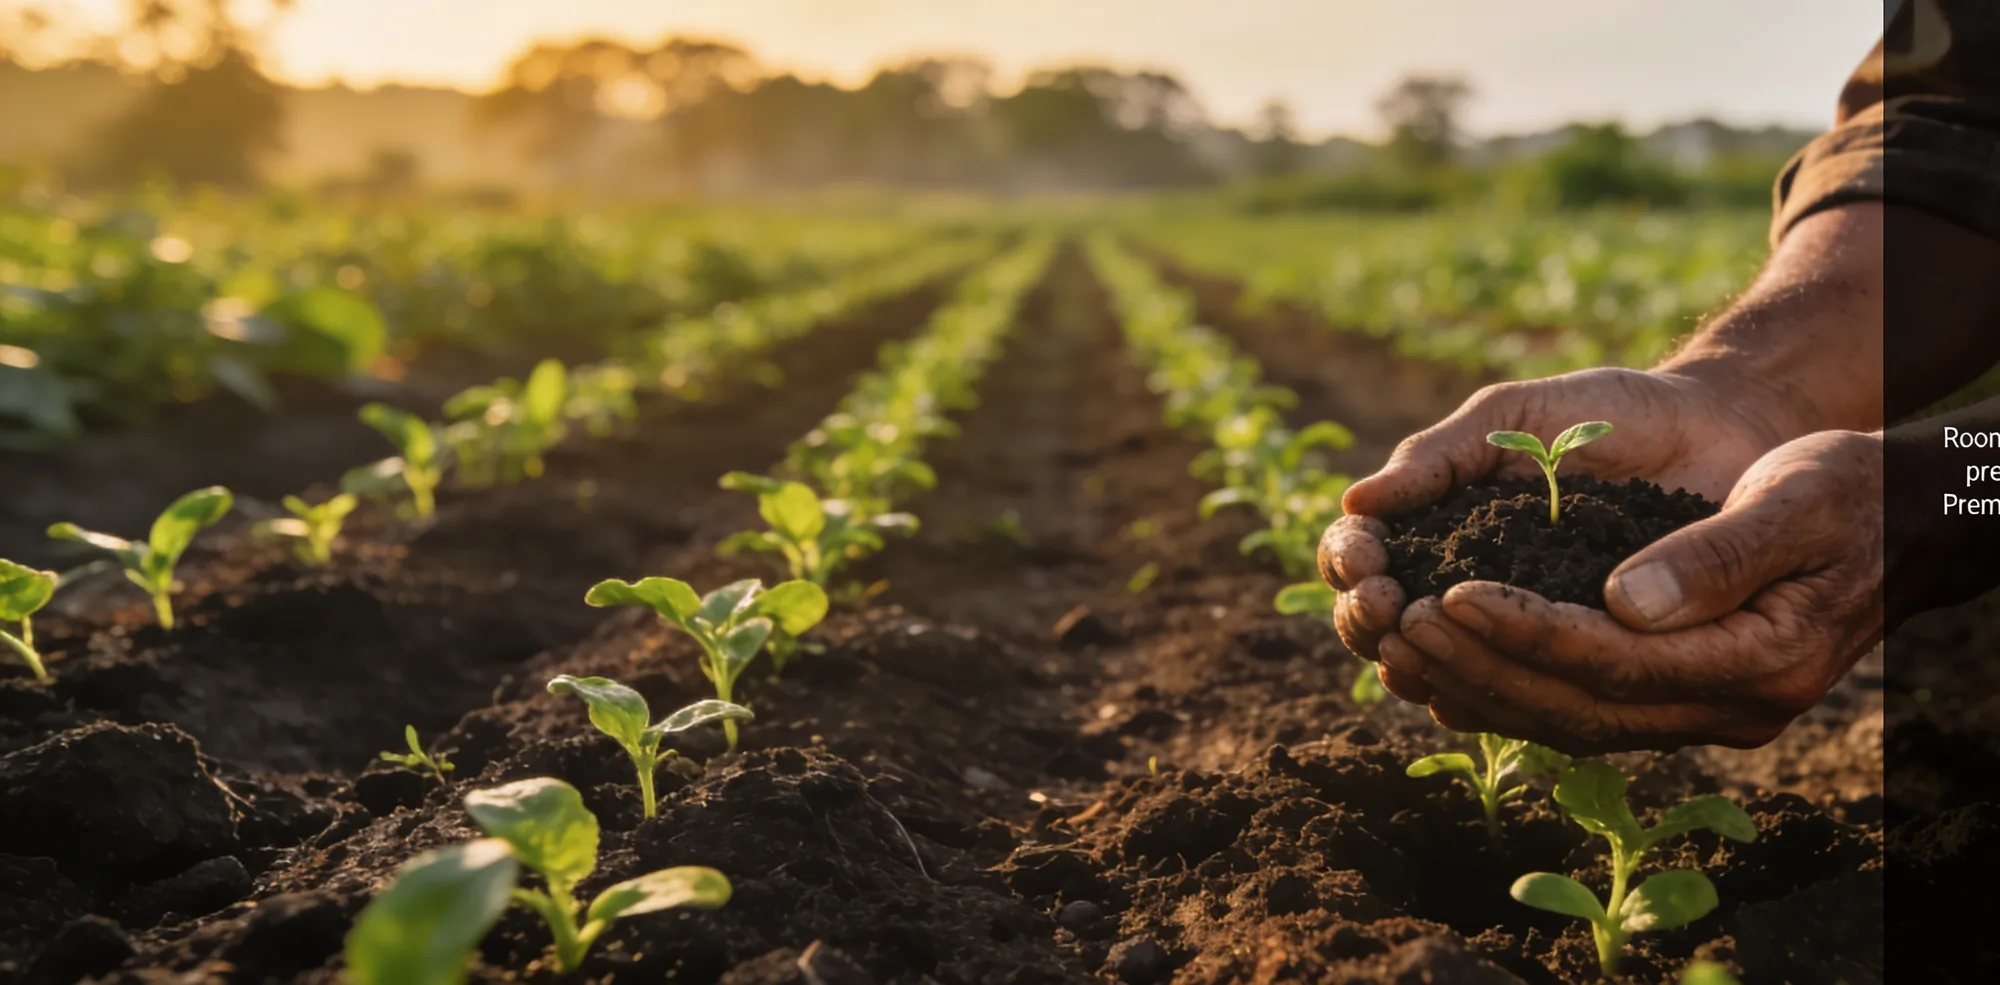
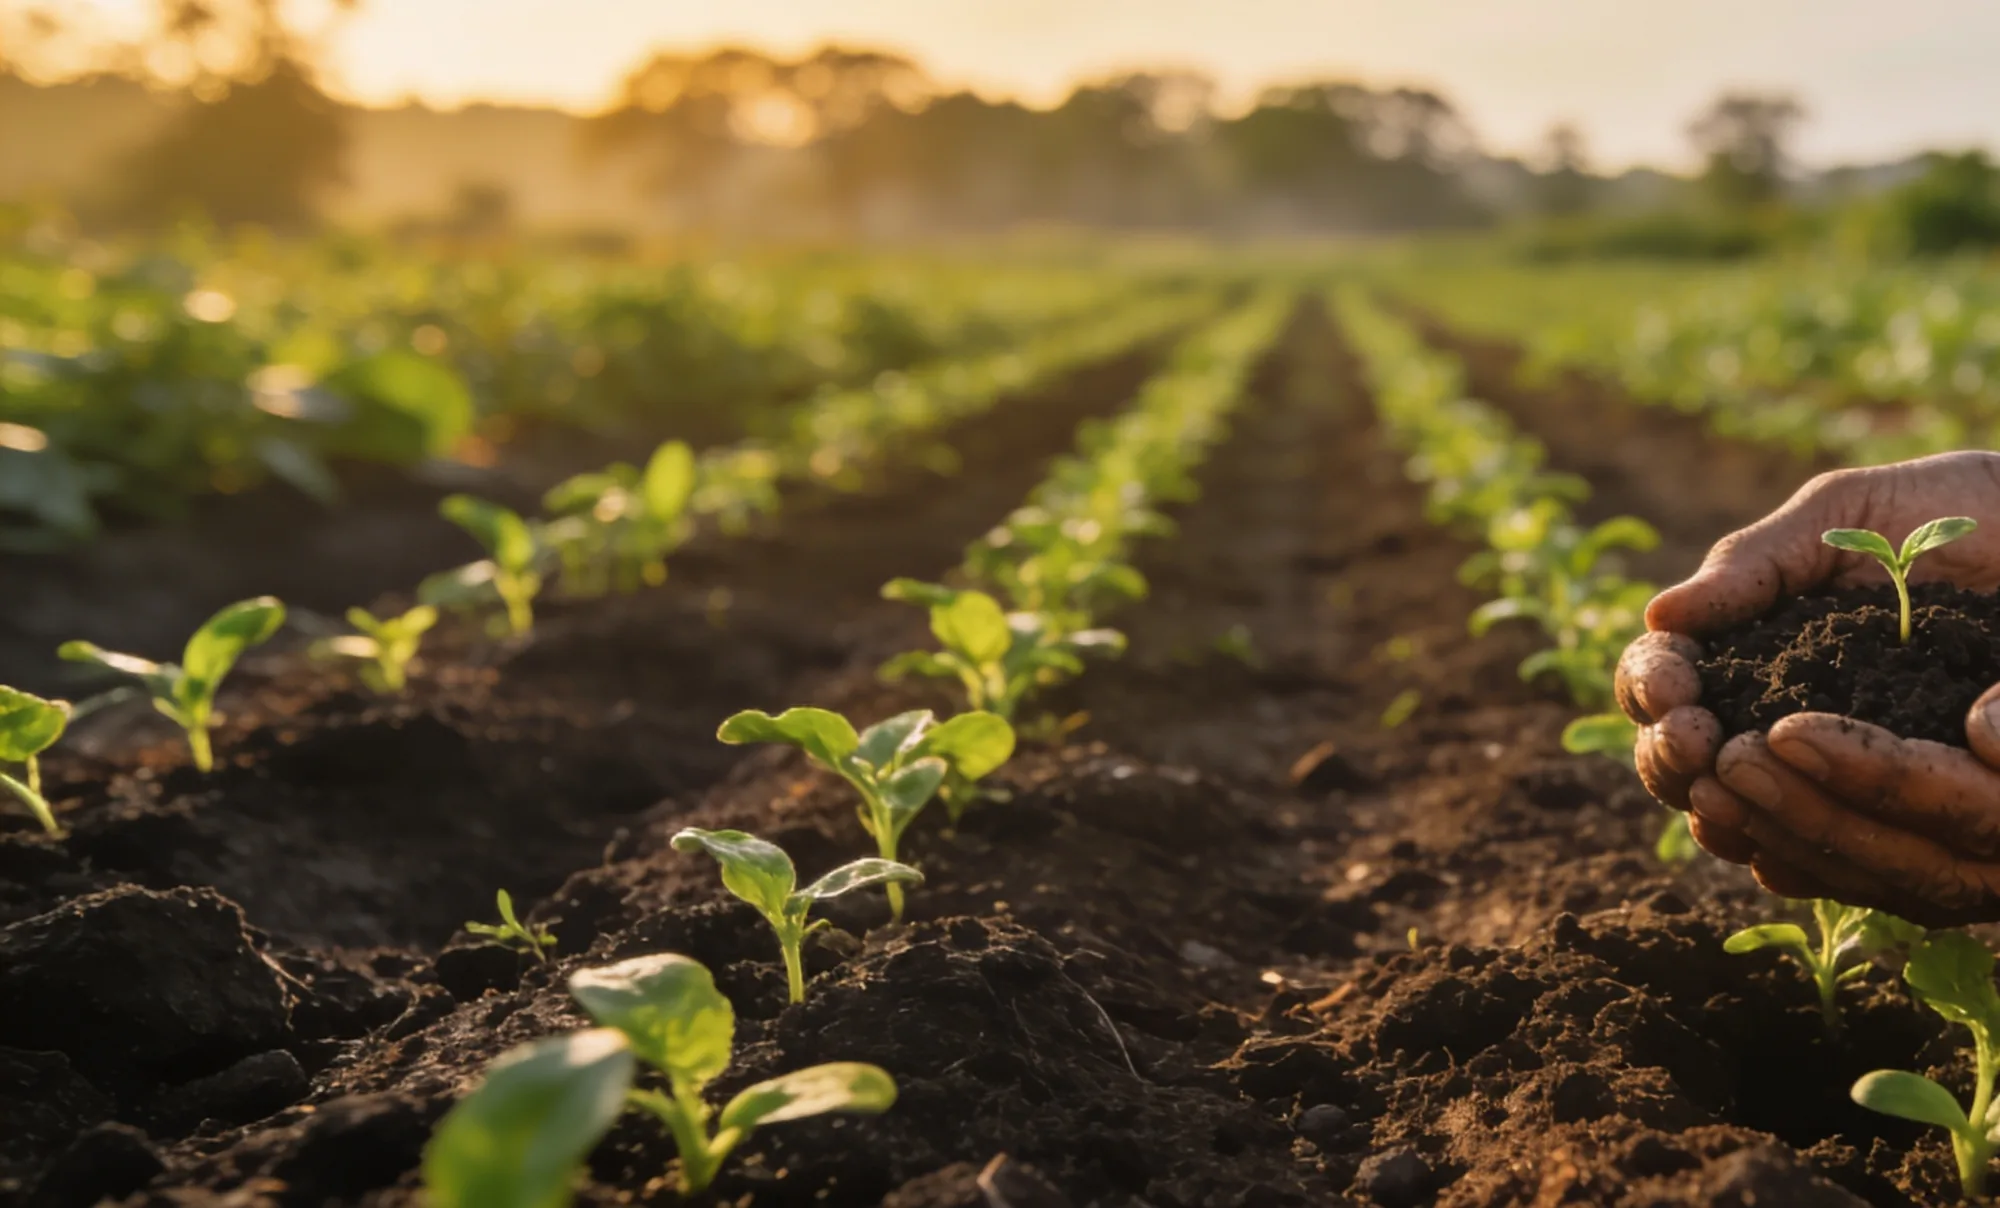
fix(ui): about hero -> dark soft-serif treatment + re-crop to remove leaked text; lighten CTAs

diff --git a/src/app/about/page.tsx b/src/app/about/page.tsx
@@ -53,7 +53,8 @@ export default function AboutPage() {
   return (
     <PageShell>
       <PageHero
-        tint="story"
+        tone="forest"
+        serifTitle
         image="/images/about/about-hero.webp"
         eyebrow="Our story"
         title={
@@ -64,10 +65,10 @@ export default function AboutPage() {
         description="Nutri Greenz began with one farm, one press and one stubborn belief — that good food should be honest about where it comes from. Today we bring fully traceable produce from 42 partner farms to kitchens across Hyderabad."
       >
         <div className="mt-8 flex flex-wrap gap-3">
-          <Button asChild variant="primary" size="lg">
+          <Button asChild variant="primary" size="lg" className="!bg-ng-cream !text-ng-forest-deep hover:!bg-white">
             <Link href="/shop">Shop the pantry</Link>
           </Button>
-          <Button asChild variant="outline" size="lg">
+          <Button asChild variant="outline" size="lg" className="!border-ng-cream/60 !text-ng-cream hover:!bg-ng-cream/10">
             <Link href="/farms">Meet the farms</Link>
           </Button>
         </div>
